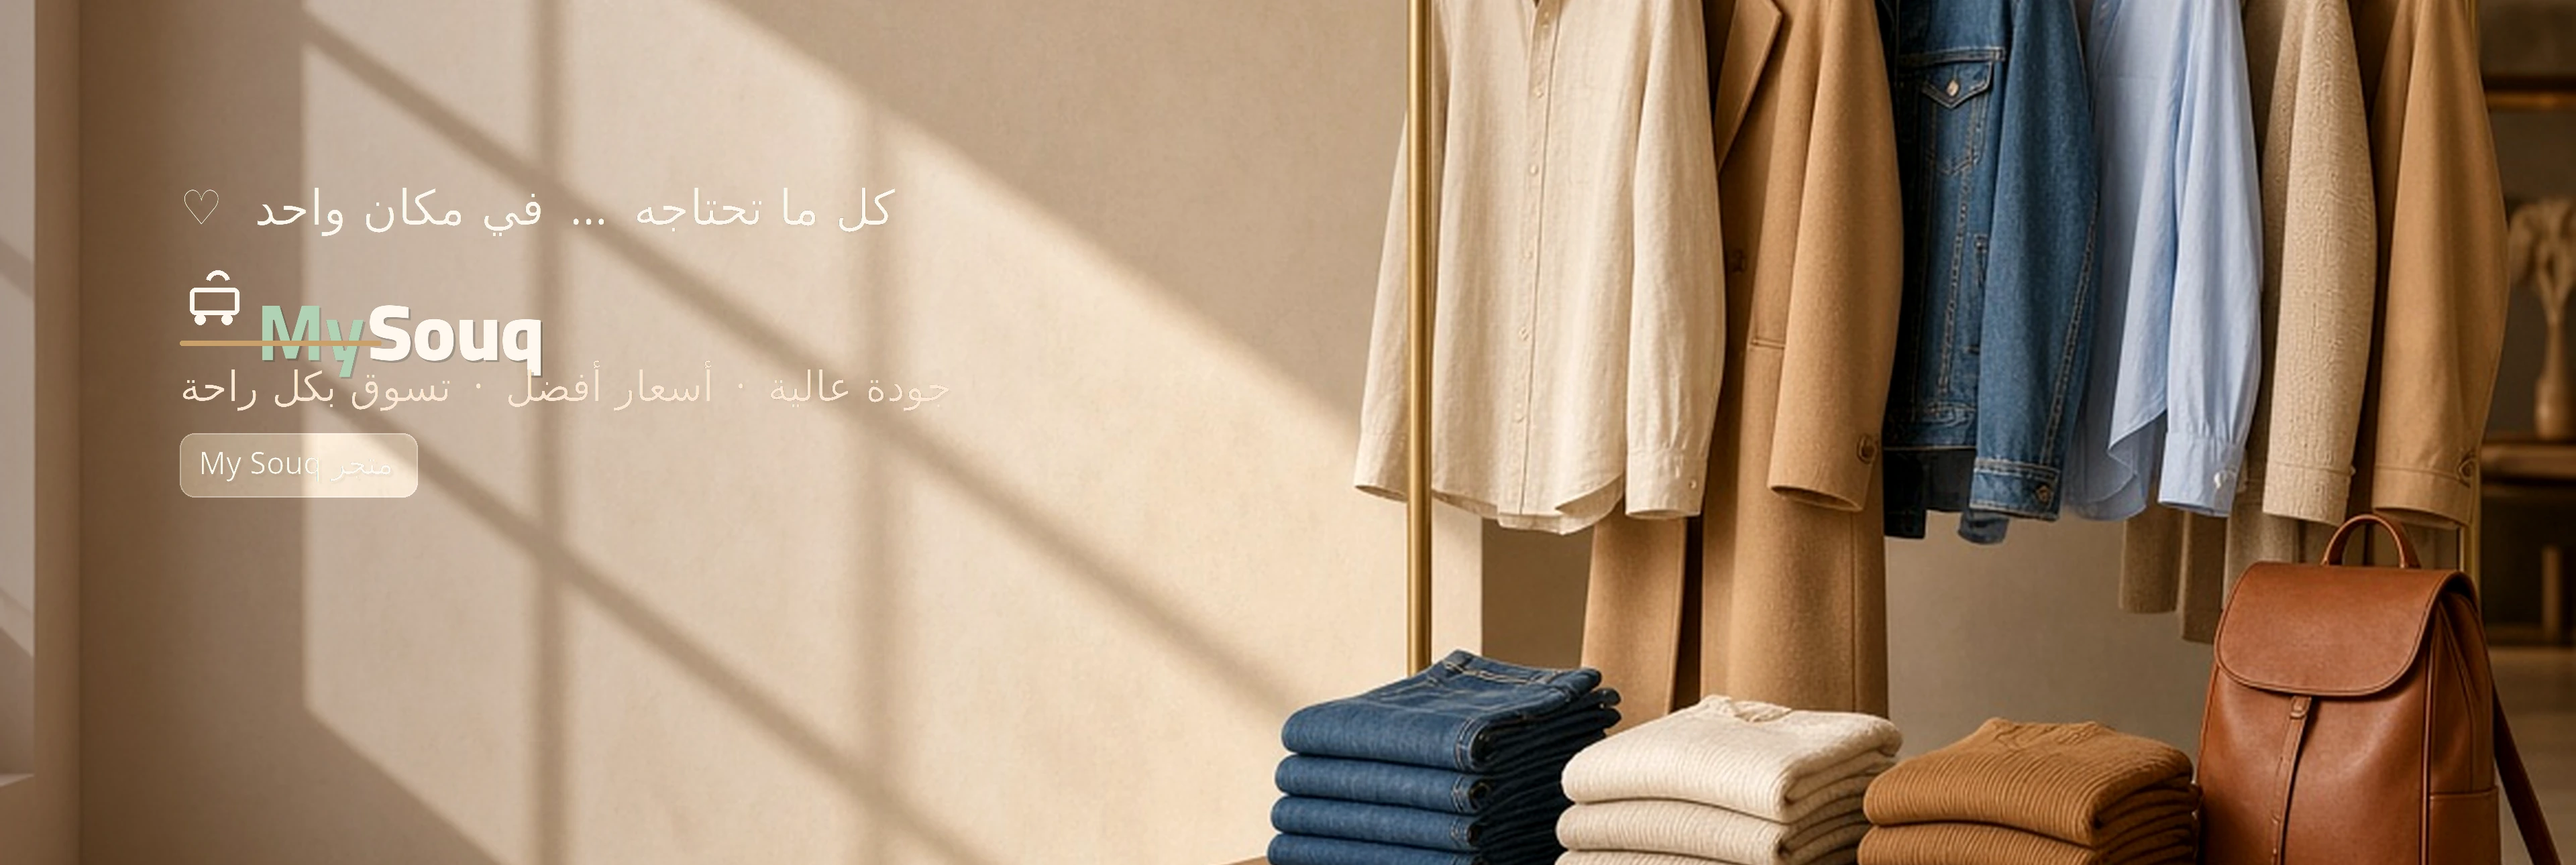
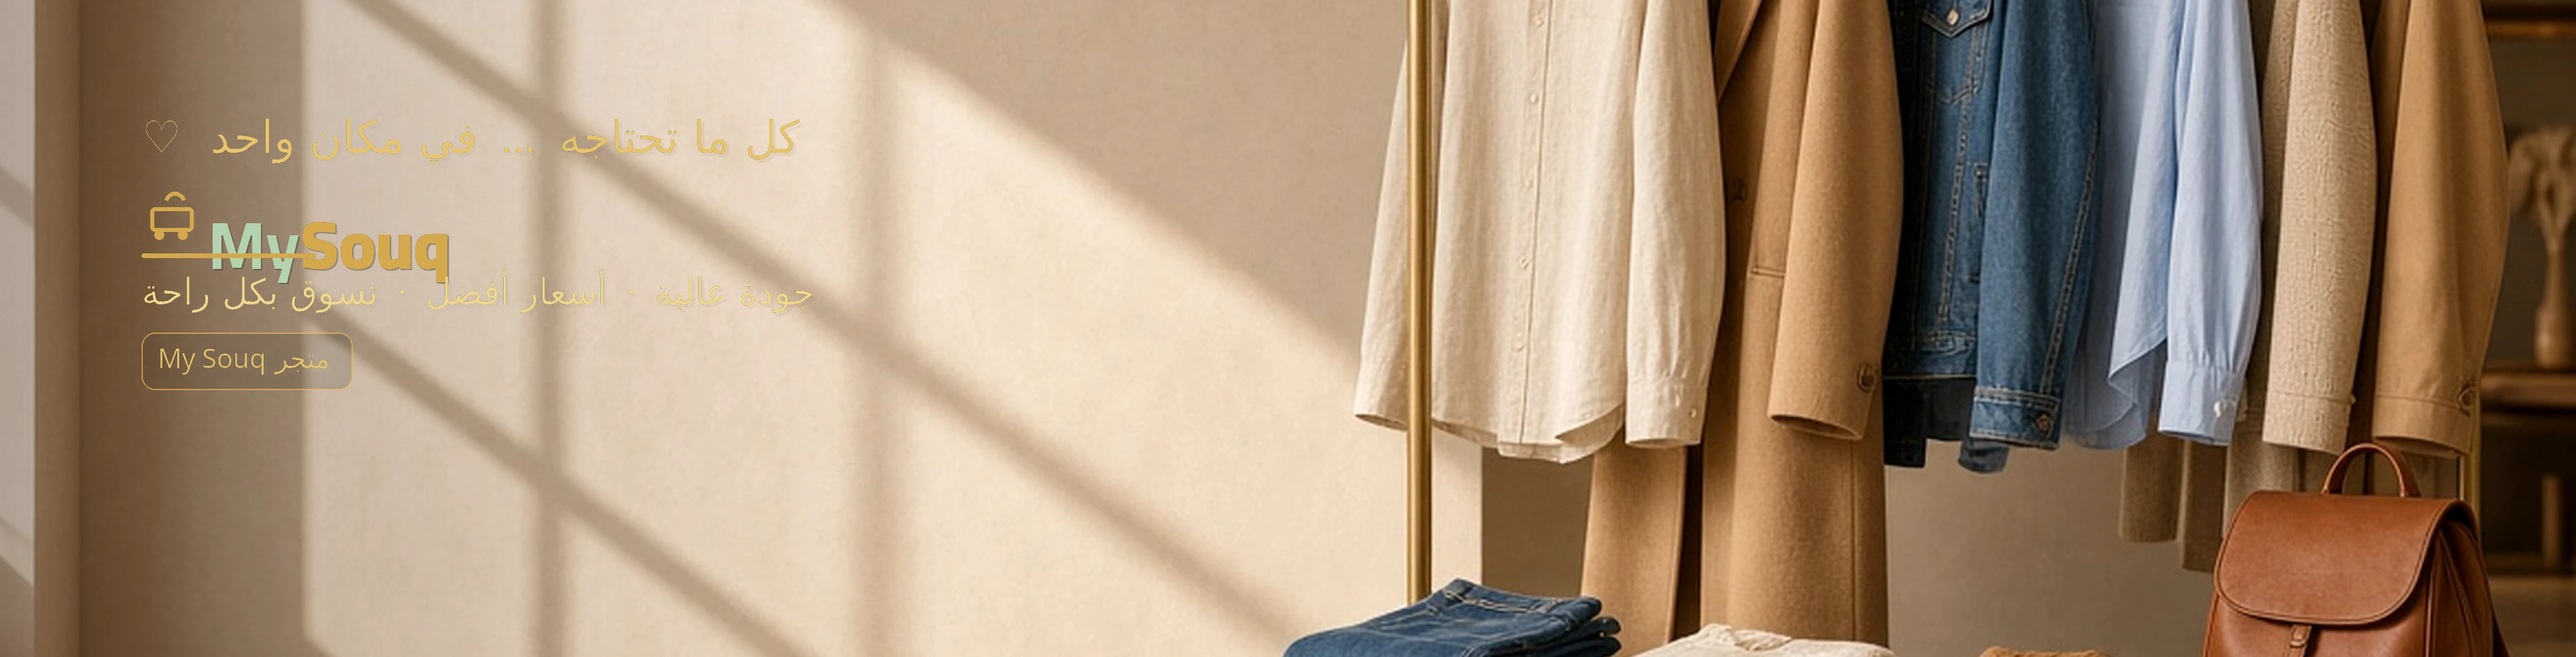
Add files via upload

diff --git a/index.html b/index.html
@@ -4220,10 +4220,10 @@ html.msq-version-checking { background: #f4e5d8; }
     <p style="display:none!important" aria-hidden="true"></p>
 
     <div class="banner-slides">
-      <div class="banner-slide active" style="background-image:url('assets/banner-beauty.webp?v=20261020-brand')" role="img" aria-label="أناقة ماي سوق - عالم الجمال والأزياء"></div>
-      <div class="banner-slide" style="background-image:url('assets/banner-baby.webp?v=20261020-brand')" role="img" aria-label="ركن حضانة دافئ من ماي سوق"></div>
-      <div class="banner-slide" style="background-image:url('assets/banner-men.webp?v=20261020-brand')" role="img" aria-label="أناقة هادئة وتسوق مريح"></div>
-      <div class="banner-slide" style="background-image:url('assets/banner-kids.webp?v=20261020-brand')" role="img" aria-label="أزياء أطفال أنيق وتسوق عصري"></div>
+      <div class="banner-slide active" style="background-image:url('assets/banner-beauty.webp?v=20261020-gold-short')" role="img" aria-label="أناقة ماي سوق - عالم الجمال والأزياء"></div>
+      <div class="banner-slide" style="background-image:url('assets/banner-baby.webp?v=20261020-gold-short')" role="img" aria-label="ركن حضانة دافئ من ماي سوق"></div>
+      <div class="banner-slide" style="background-image:url('assets/banner-men.webp?v=20261020-gold-short')" role="img" aria-label="أناقة هادئة وتسوق مريح"></div>
+      <div class="banner-slide" style="background-image:url('assets/banner-kids.webp?v=20261020-gold-short')" role="img" aria-label="أزياء أطفال أنيق وتسوق عصري"></div>
     </div>
 
     <div class="banner-dots" role="tablist" aria-label="اختيار البانر">
@@ -20339,17 +20339,22 @@ html body.msq-tt-ready body > header {
   margin: 0 !important;
   margin-top: 0 !important;
   border-radius: 0 0 28px 28px !important;
-  min-height: clamp(220px, 42vw, 380px) !important;
+  min-height: clamp(140px, 22vw, 220px) !important;
+  max-height: 240px !important;
+  height: clamp(140px, 22vw, 220px) !important;
   padding: 0 !important;
   overflow: hidden !important;
   isolation: isolate !important;
 }
 html body.msq-tt-ready header .banner-slides,
 html body.msq-tt-ready header .banner-slide {
-  border-radius: 0 0 28px 28px !important;
+  border-radius: 0 0 22px 22px !important;
   width: 100% !important;
   height: 100% !important;
-  min-height: clamp(220px, 42vw, 380px) !important;
+  min-height: clamp(140px, 22vw, 220px) !important;
+  max-height: 240px !important;
+  background-position: 70% center !important;
+  background-size: cover !important;
 }
 
 /* Hide free-floating absolute icons — they live inside the toolbar */
@@ -20780,13 +20785,17 @@ html body.msq-tt-ready .controls-wrapper {
     font-size: 14px !important;
   }
   html body.msq-tt-ready header.mysouq-banner-carousel {
-    min-height: clamp(180px, 48vw, 280px) !important;
-    border-radius: 0 0 22px 22px !important;
+    min-height: clamp(120px, 28vw, 180px) !important;
+    max-height: 190px !important;
+    height: clamp(120px, 28vw, 180px) !important;
+    border-radius: 0 0 18px 18px !important;
   }
   html body.msq-tt-ready header .banner-slides,
   html body.msq-tt-ready header .banner-slide {
-    min-height: clamp(180px, 48vw, 280px) !important;
-    border-radius: 0 0 22px 22px !important;
+    min-height: clamp(120px, 28vw, 180px) !important;
+    max-height: 190px !important;
+    border-radius: 0 0 18px 18px !important;
+    background-position: 72% center !important;
   }
 }
 
@@ -21054,5 +21063,44 @@ html body header .banner-slide {
   background-position: center center !important;
   -webkit-backface-visibility: hidden !important;
   backface-visibility: hidden !important;
+}
+</style>
+
+<style id="mysouq-banner-compact-v1">
+/* Compact banner — not half the screen */
+html body.msq-tt-ready header.mysouq-banner-carousel,
+html body.msq-tt-ready header#mysouqBannerCarousel,
+html body.msq-tt-ready body > header.mysouq-banner-carousel {
+  min-height: 160px !important;
+  max-height: 220px !important;
+  height: min(22vw, 220px) !important;
+  border-radius: 0 0 20px 20px !important;
+}
+html body.msq-tt-ready header .banner-slides,
+html body.msq-tt-ready header .banner-slide {
+  min-height: 100% !important;
+  max-height: 220px !important;
+  height: 100% !important;
+  background-position: 68% 40% !important;
+  background-size: cover !important;
+}
+@media (max-width: 700px) {
+  html body.msq-tt-ready header.mysouq-banner-carousel,
+  html body.msq-tt-ready header#mysouqBannerCarousel {
+    min-height: 130px !important;
+    max-height: 170px !important;
+    height: min(34vw, 170px) !important;
+  }
+  html body.msq-tt-ready header .banner-slide {
+    background-position: 75% 35% !important;
+  }
+}
+@media (min-width: 1100px) {
+  html body.msq-tt-ready header.mysouq-banner-carousel,
+  html body.msq-tt-ready header#mysouqBannerCarousel {
+    min-height: 180px !important;
+    max-height: 220px !important;
+    height: 200px !important;
+  }
 }
 </style>
